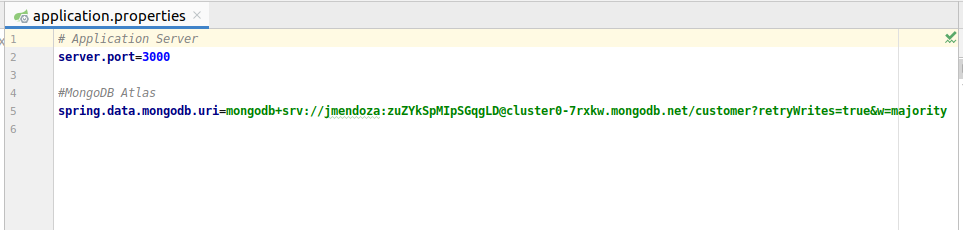
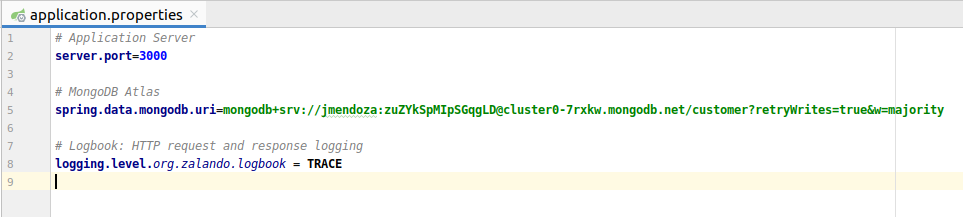
Customer Microservice: Add Logbook - HTTP request and response logging

diff --git a/Customer/README.md b/Customer/README.md
@@ -18,3 +18,24 @@ This example was implemented with Spring Boot, MongoDB Atlas.
 
 ![Screenshot](prtsc/Customer-2.png)
 
+## Create Customer
+
+**Postman**
+
+![Screenshot](prtsc/Customer-3.png)
+
+![Screenshot](prtsc/Customer-3.1.png)
+
+![Screenshot](prtsc/Customer-3.3.png)
+
+**MongoDB Atlas**
+
+![Screenshot](prtsc/Customer-3.3.png)
+
+## Customer Login
+
+**Postman**
+
+![Screenshot](prtsc/Customer-4.png)
+
+
